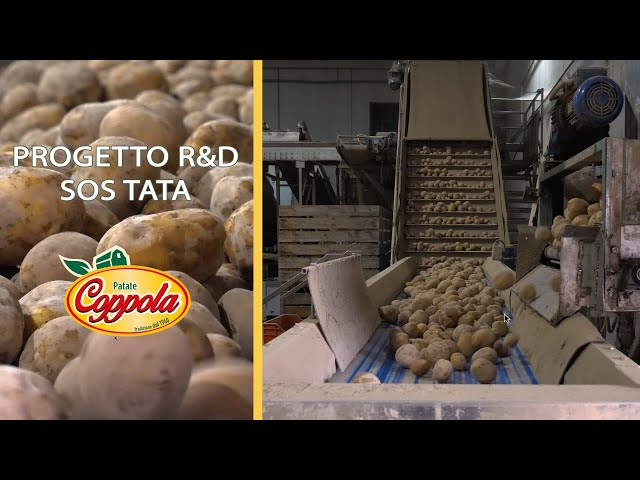
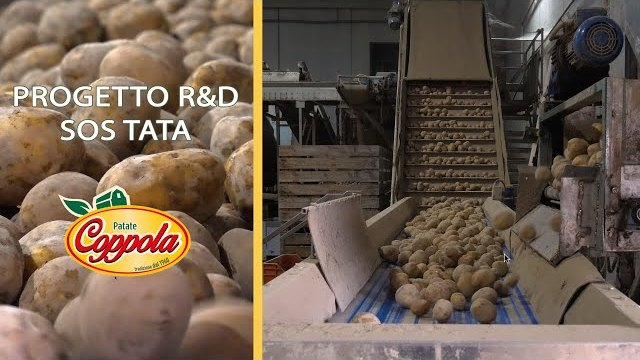
mostra davvero le anteprime video: il riquadro di riserva le copriva
Il difetto non era il file mancante ma l'ordine di sovrapposizione:
.video-fallback-bg ha z-index 1 e l'immagine non ne aveva, quindi il
fondo verde con la scritta stava SEMPRE davanti all'anteprima, anche
quando questa si caricava. Ora l'immagine e' a z-index 2, sopra il
riquadro di riserva e sotto il bottone play (3) e il badge (5): il
fondo verde ricompare solo se l'immagine non carica, che era lo
scopo per cui esisteva.

Altre due correzioni emerse dallo stesso controllo:
- .project-image ha align-items:center, quindi il riquadro video
  restava alto 280px al centro di card piu' alte e sopra e sotto
  restava scoperto il fondo nero della card SOS TATA: aggiunto
  align-self:stretch
- le anteprime scaricate da YouTube sono 640x480 con 60px di bande
  nere sopra e sotto: ritagliate a 640x360

Claude-Session: https://claude.ai/code/session_01FAPzVZY6M38rb2n7zi1EGe

diff --git a/assets/css/style.css b/assets/css/style.css
@@ -1705,6 +1705,7 @@ footer .brand-block p { color: rgba(247,244,237,.65); margin-top: 16px; max-widt
   height: 100%;
   object-fit: cover;
   display: block;
+  z-index: 2;
   transition: transform .35s ease, opacity .2s ease;
 }
 .video-thumb::before {
@@ -2301,7 +2302,7 @@ nav ul li.has-dropdown .dropdown a small {
   border: 0;
   background: #000;
 }
-.project-image > .video-player { height: 100%; min-height: 280px; aspect-ratio: auto; }
+.project-image > .video-player { height: auto; align-self: stretch; min-height: 280px; aspect-ratio: auto; }
 
 /* Fix per video-thumb dentro card progetto */
 .project-image .video-thumb,
@@ -2314,6 +2315,7 @@ nav ul li.has-dropdown .dropdown a small {
 .project-image > .video-thumb {
   padding-bottom: 0;
   height: auto;
+  align-self: stretch;
   min-height: 280px;
   position: relative;
 }
